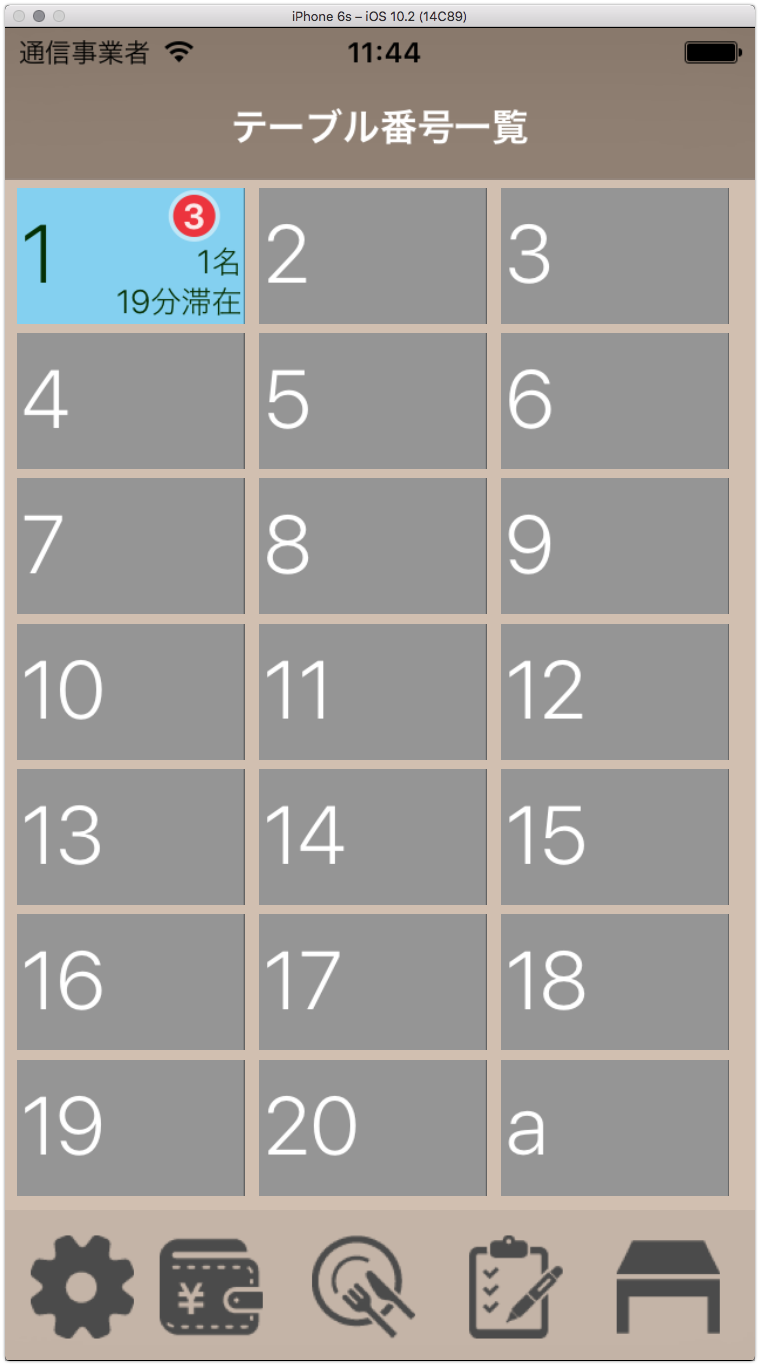
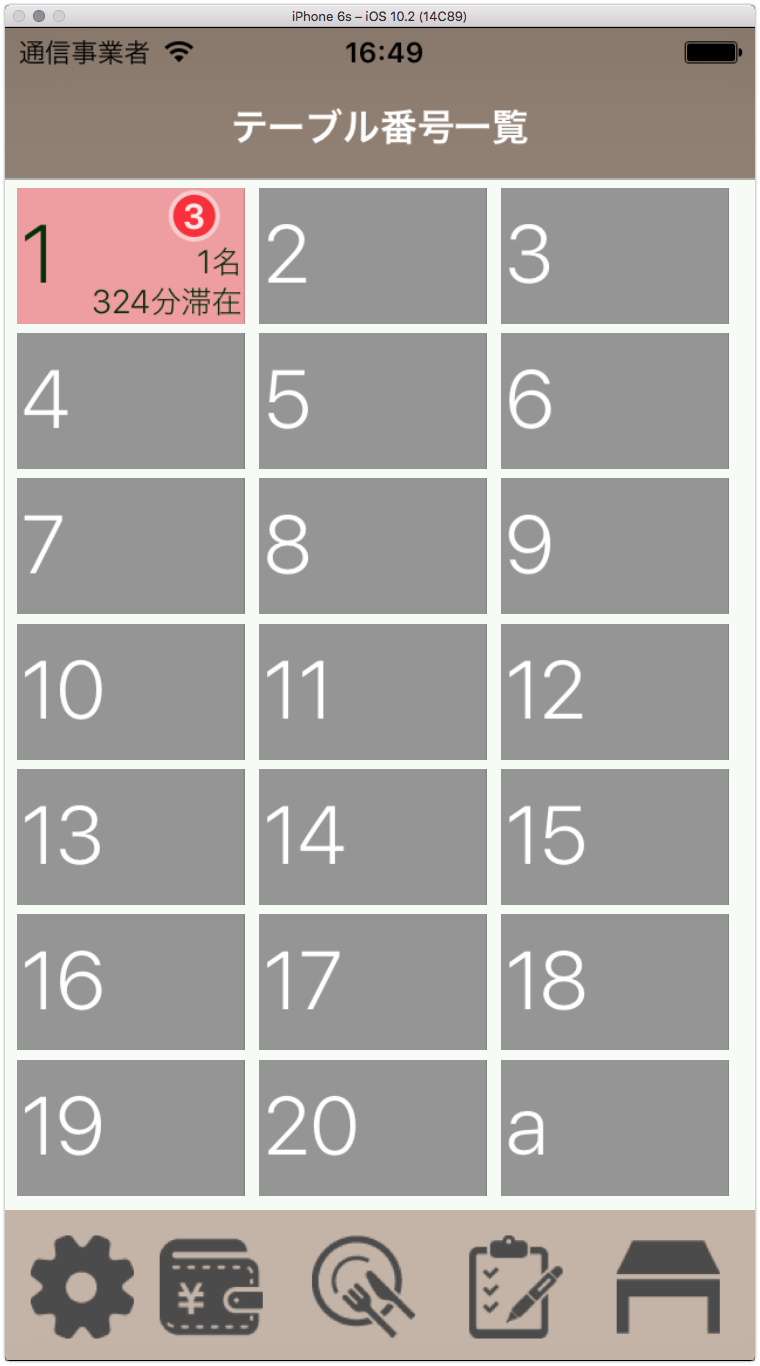
no message

Changed region(s): [[0.0, 0.123, 0.9987, 0.8917], [0.4539, 0.0307, 0.575, 0.0615]]

diff --git a/itos/staff3/history_staff3.html b/itos/staff3/history_staff3.html
@@ -995,7 +995,7 @@ pre.editor-colors .bracket-matcher .region {
 <tr>
 <td style="text-align:left">Ver.1.6.3</td>
 <td style="text-align:left">2018/03/27</td>
-<td style="text-align:left">・注文画面オプション項目文字列を左詰めに変更<br>・色設定を追加（設定１〜４）※要再起動（<a href="./histimage/1_6_3_1.png">画像参照</a>）（<a href="./histimage/1_6_3_2.png">画像参照</a>）<br>（<a href="./histimage/1_6_3_3.png">設定１</a>）（<a href="./histimage/1_6_3_4.png">設定２</a>）（<a href="./histimage/1_6_3_5.png">設定３</a>）（<a href="./histimage/1_6_3_6.png">設定４</a>）</td>
+<td style="text-align:left">・注文画面オプション項目文字列を左詰めに変更<br>・色設定を追加（設定１〜４）※要再起動（<a href="./histimage/1_6_3_1.png">画像参照</a>）（<a href="./histimage/1_6_3_2.png">画像参照</a>）<br>（<a href="./histimage/1_6_3_3.png">茶系</a>）（<a href="./histimage/1_6_3_4.png">赤系</a>）（<a href="./histimage/1_6_3_5.png">青系</a>）（<a href="./histimage/1_6_3_6.png">緑系</a>）（<a href="./histimage/1_6_3_7.png">グレー系</a>）</td>
 </tr>
 </tbody>
 </table></body>
